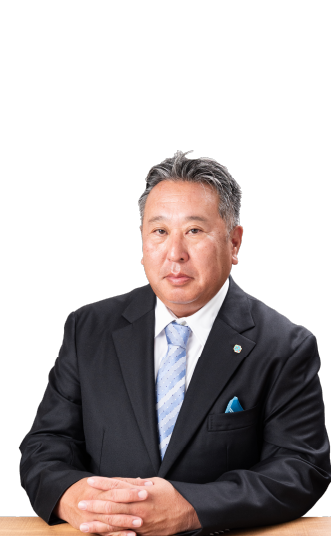
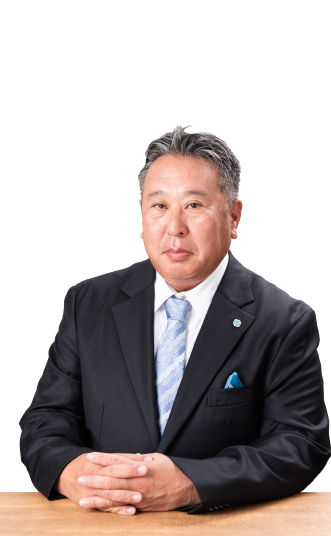
背景画像変更

Changed region(s): [[0.0, 0.209, 1.0, 1.0]]

diff --git a/css/greeting.css b/css/greeting.css
@@ -1,1 +1,1 @@
-.greeting .greetingWrapper{padding:0;width:100%;-webkit-box-sizing:border-box;box-sizing:border-box;-webkit-box-sizing:content-box;box-sizing:content-box}@media(min-width: 1024px){.greeting .greetingWrapper{padding:0}}.greeting .leadBox{color:#0072c7;font-size:21px;line-height:1.8;margin:0;padding:10px 0 0px 0}#pageContents .greeting .copyBox{width:100%;margin:30px 0 0;-webkit-box-sizing:border-box;box-sizing:border-box;position:relative;display:-webkit-box;display:-ms-flexbox;display:flex;-webkit-box-orient:vertical;-webkit-box-direction:normal;-ms-flex-flow:column;flex-flow:column;-webkit-box-pack:start;-ms-flex-pack:start;justify-content:flex-start;background-image:url(../images/company/greeting_bg.jpg);background-repeat:no-repeat;background-size:cover;background-position:center}#pageContents .greeting .copyBox #copyBoxtop{position:relative;height:200px;padding:56px 0;display:-webkit-box;display:-ms-flexbox;display:flex;-webkit-box-orient:vertical;-webkit-box-direction:normal;-ms-flex-flow:column;flex-flow:column;-ms-flex-pack:distribute;justify-content:space-around}#pageContents .greeting .copyBox #copyBoxtop::before{position:absolute;content:"";display:block;width:100%;height:88px;background-color:#0b3177;mix-blend-mode:overlay;opacity:.8;z-index:1}#pageContents .greeting .copyBox #copyBoxtop img{width:80%;height:auto;margin:0 0 0 30px;position:relative;z-index:2}@media(min-width: 1024px){#pageContents .greeting .copyBox #copyBoxtop img{margin:0 0 0 20px}}@media(min-width: 480px){#pageContents .greeting .copyBox #copyBoxtop img{width:334px;margin:0 0 0 30px;position:relative;z-index:2}}#pageContents .greeting .copyBox #copyBoxbottom{display:-webkit-box;display:-ms-flexbox;display:flex;-webkit-box-orient:vertical;-webkit-box-direction:normal;-ms-flex-flow:column;flex-flow:column;-webkit-box-pack:start;-ms-flex-pack:start;justify-content:flex-start}@media(min-width: 1024px){#pageContents .greeting .copyBox #copyBoxbottom{display:-webkit-box;display:-ms-flexbox;display:flex;-webkit-box-orient:horizontal;-webkit-box-direction:normal;-ms-flex-flow:row nowrap;flex-flow:row nowrap;-webkit-box-pack:justify;-ms-flex-pack:justify;justify-content:space-between}}#pageContents .greeting .bgimg{width:100%;height:375px;margin:0px;background:url(../en/company/images/greeting_ceo.png) no-repeat bottom right;position:absolute;bottom:0px;left:0px;z-index:-1}#pageContents .greeting .band{width:100%;margin:20px 0px;padding:0px;position:absolute;top:0px;left:0px;z-index:-2}#pageContents .greeting .blank{width:100%;height:0px;padding-top:calc(30% + 40px);-webkit-box-sizing:content-box;box-sizing:content-box}#pageContents .greeting .copy{width:100%;margin:0px;color:　 #000;-webkit-box-sizing:content-box;box-sizing:content-box;font-size:13px;line-height:1.6;text-align:left}#pageContents .greeting .copy p{color:#fff;line-height:2;margin:0 30px 0 30px;text-align:justify;padding-bottom:20px}@media(min-width: 1024px){#pageContents .greeting .copy p{color:#fff;line-height:2;margin:0 0 0 20px}}#pageContents .greeting .copy .name-area{display:-webkit-box;display:-ms-flexbox;display:flex;-webkit-box-orient:horizontal;-webkit-box-direction:normal;-ms-flex-flow:row nowrap;flex-flow:row nowrap;-webkit-box-pack:end;-ms-flex-pack:end;justify-content:end}#pageContents .greeting .copy .name-area .president_name{padding-bottom:0 !important}#pageContents .greeting .band img{width:100%;height:auto}#pageContents .greeting #dummyarea{width:270px;height:375px}@media(max-width: 480px){#pageContents .greeting .copy{width:100%;padding-right:0px}#pageContents .greeting #dummyarea{display:block}}@media(min-width: 481px){#pageContents .greeting .copy{width:100%}#pageContents .greeting #dummyarea{display:none}}@media(min-width: 1024px){#pageContents .greeting .copy{width:calc(100% - 330px);padding-bottom:40px}}.president-image{display:-webkit-box;display:-ms-flexbox;display:flex;-webkit-box-orient:horizontal;-webkit-box-direction:normal;-ms-flex-flow:row nowrap;flex-flow:row nowrap;-webkit-box-pack:end;-ms-flex-pack:end;justify-content:flex-end;width:auto}@media(min-width: 1024px){.president-image{width:330px}}.president-image img{width:auto}@media(min-width: 1024px){.president-image img{width:100%;height:auto}}.greeting .imgBox{margin:50px 0}#pageContents .greeting .dot_tracking{letter-spacing:-2px}#pageContents .greeting .comma_tracking{letter-spacing:-5px}.greeting .greetingWrapper2{padding:20px 0 50px 0;-webkit-box-sizing:border-box;box-sizing:border-box}/*# sourceMappingURL=greeting.css.map */
+.greeting .greetingWrapper{padding:0;width:100%;-webkit-box-sizing:border-box;box-sizing:border-box;-webkit-box-sizing:content-box;box-sizing:content-box}@media(min-width: 1024px){.greeting .greetingWrapper{padding:0}}.greeting .leadBox{color:#0072c7;font-size:21px;line-height:1.8;margin:0;padding:10px 0 0px 0}#pageContents .greeting .copyBox{width:100%;margin:30px 0 0;-webkit-box-sizing:border-box;box-sizing:border-box;position:relative;display:-webkit-box;display:-ms-flexbox;display:flex;-webkit-box-orient:vertical;-webkit-box-direction:normal;-ms-flex-flow:column;flex-flow:column;-webkit-box-pack:start;-ms-flex-pack:start;justify-content:flex-start;background-image:url(../images/company/greeting_bg.jpg);background-repeat:no-repeat;background-size:cover;background-position:center}#pageContents .greeting .copyBox #copyBoxtop{position:relative;height:200px;padding:56px 0;display:-webkit-box;display:-ms-flexbox;display:flex;-webkit-box-orient:vertical;-webkit-box-direction:normal;-ms-flex-flow:column;flex-flow:column;-ms-flex-pack:distribute;justify-content:space-around}#pageContents .greeting .copyBox #copyBoxtop::before{position:absolute;content:"";display:none;width:100%;height:88px;background-color:#0b3177;mix-blend-mode:overlay;opacity:.8;z-index:1}#pageContents .greeting .copyBox #copyBoxtop img{width:80%;height:auto;margin:0 0 0 30px;position:relative;z-index:2}@media(min-width: 1024px){#pageContents .greeting .copyBox #copyBoxtop img{margin:0 0 0 20px}}@media(min-width: 480px){#pageContents .greeting .copyBox #copyBoxtop img{width:334px;margin:0 0 0 30px;position:relative;z-index:2}}#pageContents .greeting .copyBox #copyBoxbottom{display:-webkit-box;display:-ms-flexbox;display:flex;-webkit-box-orient:vertical;-webkit-box-direction:normal;-ms-flex-flow:column;flex-flow:column;-webkit-box-pack:start;-ms-flex-pack:start;justify-content:flex-start}@media(min-width: 1024px){#pageContents .greeting .copyBox #copyBoxbottom{display:-webkit-box;display:-ms-flexbox;display:flex;-webkit-box-orient:horizontal;-webkit-box-direction:normal;-ms-flex-flow:row nowrap;flex-flow:row nowrap;-webkit-box-pack:justify;-ms-flex-pack:justify;justify-content:space-between}}#pageContents .greeting .bgimg{width:100%;height:375px;margin:0px;background:url(../en/company/images/greeting_ceo.png) no-repeat bottom right;position:absolute;bottom:0px;left:0px;z-index:-1}#pageContents .greeting .band{width:100%;margin:20px 0px;padding:0px;position:absolute;top:0px;left:0px;z-index:-2}#pageContents .greeting .blank{width:100%;height:0px;padding-top:calc(30% + 40px);-webkit-box-sizing:content-box;box-sizing:content-box}#pageContents .greeting .copy{width:100%;margin:0px;color:　 #000;-webkit-box-sizing:content-box;box-sizing:content-box;font-size:13px;line-height:1.6;text-align:left}#pageContents .greeting .copy p{color:#fff;line-height:2;margin:0 30px 0 30px;text-align:justify;text-shadow:0 0 5px #000}@media(min-width: 1024px){#pageContents .greeting .copy p{color:#fff;line-height:2;margin:0 0 0 20px}}#pageContents .greeting .copy .name-area{display:-webkit-box;display:-ms-flexbox;display:flex;-webkit-box-orient:horizontal;-webkit-box-direction:normal;-ms-flex-flow:row nowrap;flex-flow:row nowrap;-webkit-box-pack:end;-ms-flex-pack:end;justify-content:end}#pageContents .greeting .copy .name-area .president_name{padding-bottom:0 !important}#pageContents .greeting .band img{width:100%;height:auto}#pageContents .greeting #dummyarea{width:270px;height:375px}@media(max-width: 480px){#pageContents .greeting .copy{width:100%;padding-right:0px}#pageContents .greeting #dummyarea{display:block}}@media(min-width: 481px){#pageContents .greeting .copy{width:100%}#pageContents .greeting #dummyarea{display:none}}@media(min-width: 1024px){#pageContents .greeting .copy{width:calc(100% - 330px);padding-bottom:40px}}.president-image{display:-webkit-box;display:-ms-flexbox;display:flex;-webkit-box-orient:horizontal;-webkit-box-direction:normal;-ms-flex-flow:row nowrap;flex-flow:row nowrap;-webkit-box-pack:end;-ms-flex-pack:end;justify-content:flex-end;width:auto}@media(min-width: 1024px){.president-image{width:330px}}.president-image img{width:auto}@media(min-width: 1024px){.president-image img{width:100%;height:auto}}.greeting .imgBox{margin:50px 0}#pageContents .greeting .dot_tracking{letter-spacing:-2px}#pageContents .greeting .comma_tracking{letter-spacing:-5px}.greeting .greetingWrapper2{padding:20px 0 50px 0;-webkit-box-sizing:border-box;box-sizing:border-box}/*# sourceMappingURL=greeting.css.map */

diff --git a/scss/project/greeting.scss b/scss/project/greeting.scss
@@ -38,7 +38,7 @@
 #pageContents .greeting .copyBox #copyBoxtop::before {
     position: absolute;
     content: "";
-    display: block;
+    display: none;
     width: 100%;
     height: 88px;
     background-color:#0b3177;
@@ -114,7 +114,7 @@
     line-height: 2;
     margin: 0 30px 0 30px;
     text-align: justify;
-    padding-bottom: 20px;
+    text-shadow: 0 0 5px #000;
     @media (min-width: 1024px) {
         color: #fff;
         line-height: 2;
